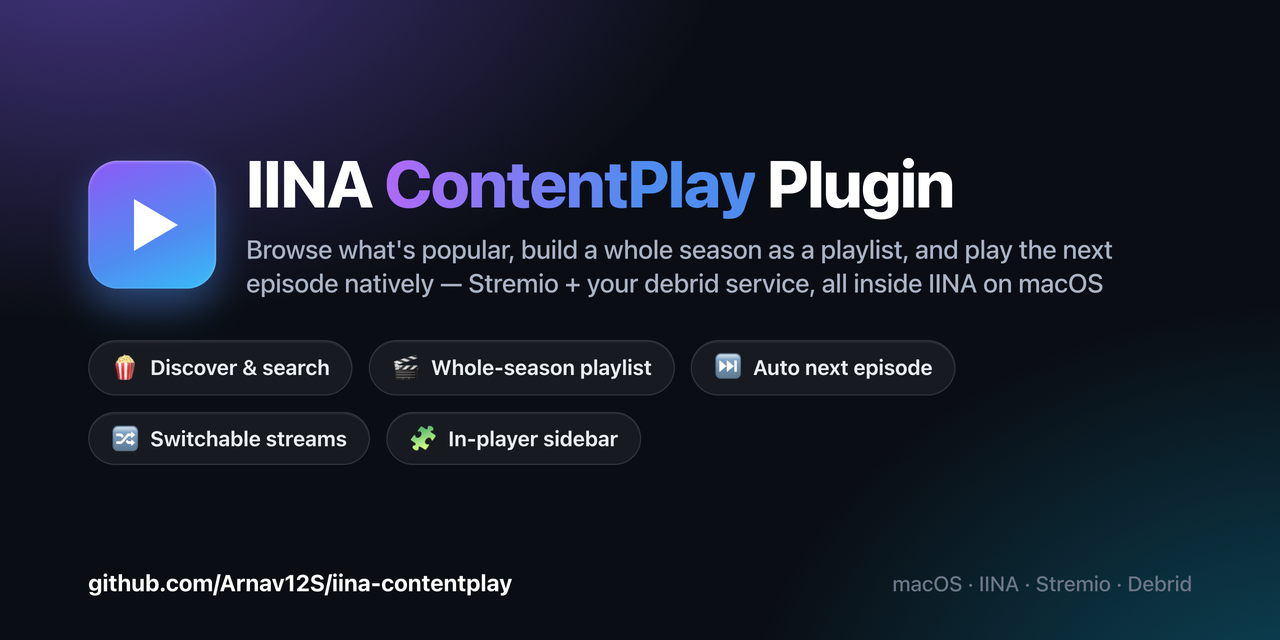
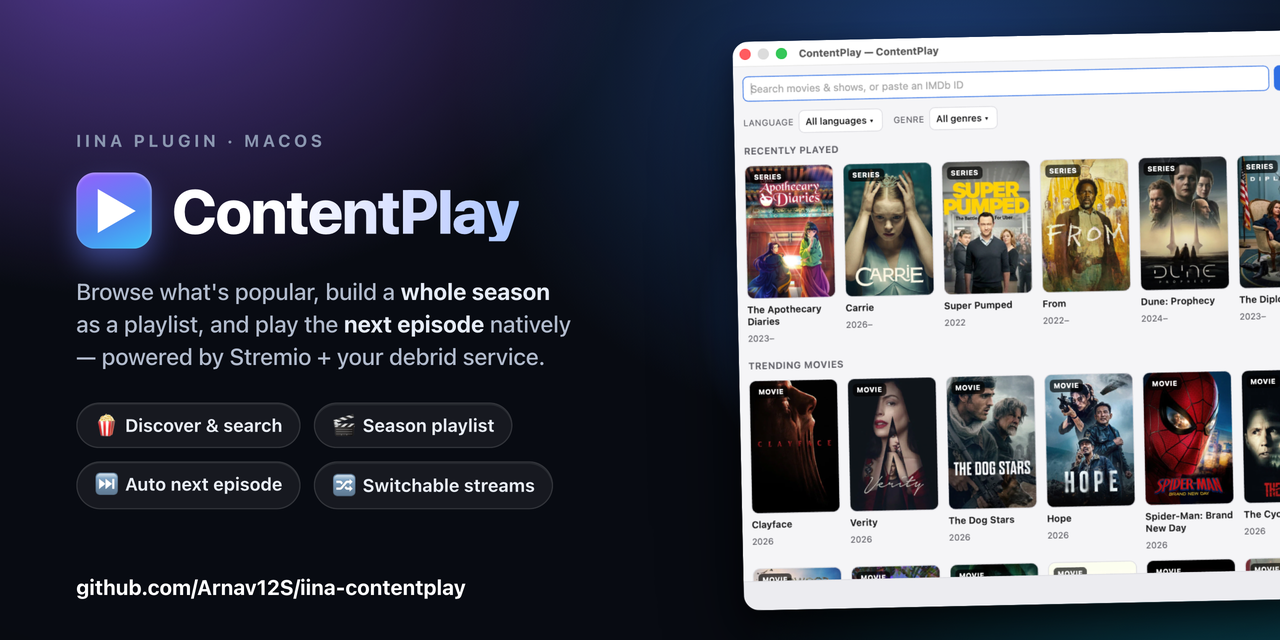
OG Image

diff --git a/docs/hero.html b/docs/hero.html
@@ -7,78 +7,107 @@
   .stage {
     zoom: 0.8;
     width: 1280px; height: 640px; position: relative; overflow: hidden;
-    box-sizing: border-box; padding: 150px 88px 0;
+    box-sizing: border-box;
     font-family: -apple-system, "SF Pro Display", "Helvetica Neue", Arial, sans-serif;
     -webkit-font-smoothing: antialiased;
     background:
-      radial-gradient(1150px 720px at 7% -12%, rgba(130, 95, 246, 0.50), transparent 55%),
-      radial-gradient(1050px 820px at 103% 118%, rgba(13, 125, 158, 0.55), transparent 55%),
-      #0a0e14;
+      radial-gradient(900px 620px at 10% -8%, rgba(147, 97, 253, 0.55), transparent 56%),
+      radial-gradient(820px 640px at 74% 10%, rgba(56, 129, 248, 0.42), transparent 60%),
+      radial-gradient(1050px 760px at 102% 116%, rgba(14, 150, 178, 0.55), transparent 55%),
+      #080b12;
   }
-  .header { display: flex; align-items: center; gap: 30px; }
+  /* vignette for depth */
+  .stage::after {
+    content: ""; position: absolute; inset: 0; pointer-events: none;
+    background: radial-gradient(130% 120% at 50% 42%, transparent 58%, rgba(0,0,0,0.5) 100%);
+  }
+
+  /* glow behind the app window */
+  .glow {
+    position: absolute; right: -30px; top: 50%; width: 700px; height: 560px;
+    transform: translateY(-50%);
+    background: radial-gradient(closest-side, rgba(110, 104, 248, 0.55), rgba(56, 129, 248, 0.22) 55%, transparent 75%);
+  }
+
+  /* the floating app window */
+  .shot {
+    position: absolute; right: -58px; top: 50%; width: 600px;
+    transform: translateY(-50%) rotate(-1.2deg);
+    border-radius: 16px; overflow: hidden;
+    box-shadow: 0 2px 0 rgba(255,255,255,0.10) inset,
+                0 44px 100px rgba(0,0,0,0.60),
+                0 10px 30px rgba(0,0,0,0.45);
+    outline: 1px solid rgba(255,255,255,0.10); outline-offset: -1px;
+  }
+  .shot img { display: block; width: 100%; }
+
+  /* left content */
+  .left {
+    position: absolute; left: 76px; top: 0; height: 640px; width: 560px;
+    display: flex; flex-direction: column; justify-content: center;
+    z-index: 2;
+  }
+  .eyebrow {
+    font-size: 17px; font-weight: 700; letter-spacing: 3.5px; color: #8b97b0;
+    text-transform: uppercase; margin-bottom: 22px;
+  }
+  .brand { display: flex; align-items: center; gap: 20px; }
   .icon {
-    width: 128px; height: 128px; border-radius: 30px; flex: none;
-    background: linear-gradient(158deg, #8b5cf6 2%, #4f8cf0 62%, #38bdf8 100%);
+    width: 76px; height: 76px; border-radius: 19px; flex: none;
+    background: linear-gradient(158deg, #9361fd 2%, #4f8cf0 60%, #3bc3f8 100%);
     display: flex; align-items: center; justify-content: center;
-    box-shadow: 0 18px 46px rgba(79, 140, 240, 0.45), inset 0 1px 1px rgba(255,255,255,0.35);
+    box-shadow: 0 14px 34px rgba(99, 120, 240, 0.5), inset 0 1px 1px rgba(255,255,255,0.4);
   }
-  .icon svg { margin-left: 8px; }
-  .titles h1 {
-    margin: 0; font-size: 66px; line-height: 1.02; font-weight: 800;
-    letter-spacing: -1.5px; color: #ffffff;
-  }
-  .accent {
-    background: linear-gradient(92deg, #b069f7, #4f8cf0 70%);
+  .icon svg { margin-left: 5px; }
+  .brand h1 {
+    margin: 0; font-size: 62px; line-height: 1; font-weight: 800; letter-spacing: -1.6px;
+    background: linear-gradient(90deg, #ffffff 30%, #cdd7ff 75%, #a9c6ff);
     -webkit-background-clip: text; background-clip: text; color: transparent;
   }
-  .titles p {
-    margin: 16px 0 0; font-size: 26px; line-height: 1.32; font-weight: 500;
-    color: #aab4c6; max-width: 950px;
+  .pitch {
+    margin: 26px 0 0; font-size: 23px; line-height: 1.42; font-weight: 500;
+    color: #b2bcce; max-width: 500px;
   }
-  .pills { display: flex; flex-wrap: wrap; gap: 16px; margin-top: 40px; max-width: 1020px; }
+  .pitch b { color: #e6ecf7; font-weight: 700; }
+  .pills { display: flex; flex-wrap: wrap; gap: 13px; margin-top: 30px; max-width: 540px; }
   .pill {
-    display: inline-flex; align-items: center; gap: 10px;
-    padding: 13px 22px; border-radius: 999px;
-    background: rgba(255, 255, 255, 0.055);
-    border: 1px solid rgba(255, 255, 255, 0.11);
-    box-shadow: inset 0 1px 0 rgba(255,255,255,0.06);
-    color: #e9eef6; font-size: 21px; font-weight: 650;
+    display: inline-flex; align-items: center; gap: 9px;
+    padding: 11px 17px; border-radius: 999px;
+    background: rgba(255, 255, 255, 0.06);
+    border: 1px solid rgba(255, 255, 255, 0.12);
+    box-shadow: inset 0 1px 0 rgba(255,255,255,0.07);
+    color: #e9eef6; font-size: 18px; font-weight: 650;
   }
-  .pill .e { font-size: 21px; }
-  .footer {
-    position: absolute; left: 88px; right: 88px; bottom: 44px;
-    display: flex; align-items: baseline; justify-content: space-between;
+  .foot {
+    position: absolute; left: 76px; bottom: 40px; z-index: 2;
+    font-size: 21px; font-weight: 700; color: #ffffff;
   }
-  .footer .repo { color: #ffffff; font-weight: 700; font-size: 23px; }
-  .footer .tags { color: #6b7687; font-weight: 500; font-size: 21px; }
+  .foot .dim { color: #65718a; font-weight: 600; }
 </style>
 </head>
 <body>
-<div class="scale">
 <div class="stage">
-  <div class="header">
-    <div class="icon">
-      <svg width="52" height="60" viewBox="0 0 52 60"><path d="M4 4 L48 30 L4 56 Z" fill="#ffffff"/></svg>
+  <div class="glow"></div>
+  <div class="shot"><img src="screenshots/discover.png" alt=""></div>
+
+  <div class="left">
+    <div class="eyebrow">IINA plugin · macOS</div>
+    <div class="brand">
+      <div class="icon">
+        <svg width="46" height="52" viewBox="0 0 46 52"><path d="M4 4 L42 26 L4 48 Z" fill="#fff"/></svg>
+      </div>
+      <h1>ContentPlay</h1>
     </div>
-    <div class="titles">
-      <h1>IINA <span class="accent">ContentPlay</span> Plugin</h1>
-      <p>Browse what's popular, build a whole season as a playlist, and play the next<br>episode natively &mdash; Stremio + your debrid service, all inside IINA on macOS</p>
+    <p class="pitch">Browse what's popular, build a <b>whole season</b> as a playlist, and play the <b>next episode</b> natively — powered by Stremio + your debrid service.</p>
+    <div class="pills">
+      <div class="pill">🍿 Discover &amp; search</div>
+      <div class="pill">🎬 Season playlist</div>
+      <div class="pill">⏭ Auto next episode</div>
+      <div class="pill">🔀 Switchable streams</div>
     </div>
   </div>
 
-  <div class="pills">
-    <div class="pill"><span class="e">🍿</span> Discover &amp; search</div>
-    <div class="pill"><span class="e">🎬</span> Whole-season playlist</div>
-    <div class="pill"><span class="e">⏭</span> Auto next episode</div>
-    <div class="pill"><span class="e">🔀</span> Switchable streams</div>
-    <div class="pill"><span class="e">🧩</span> In-player sidebar</div>
-  </div>
-
-  <div class="footer">
-    <span class="repo">github.com/Arnav12S/iina-contentplay</span>
-    <span class="tags">macOS · IINA · Stremio · Debrid</span>
-  </div>
-</div>
+  <div class="foot">github.com/Arnav12S/iina-contentplay</div>
 </div>
 </body>
 </html>
